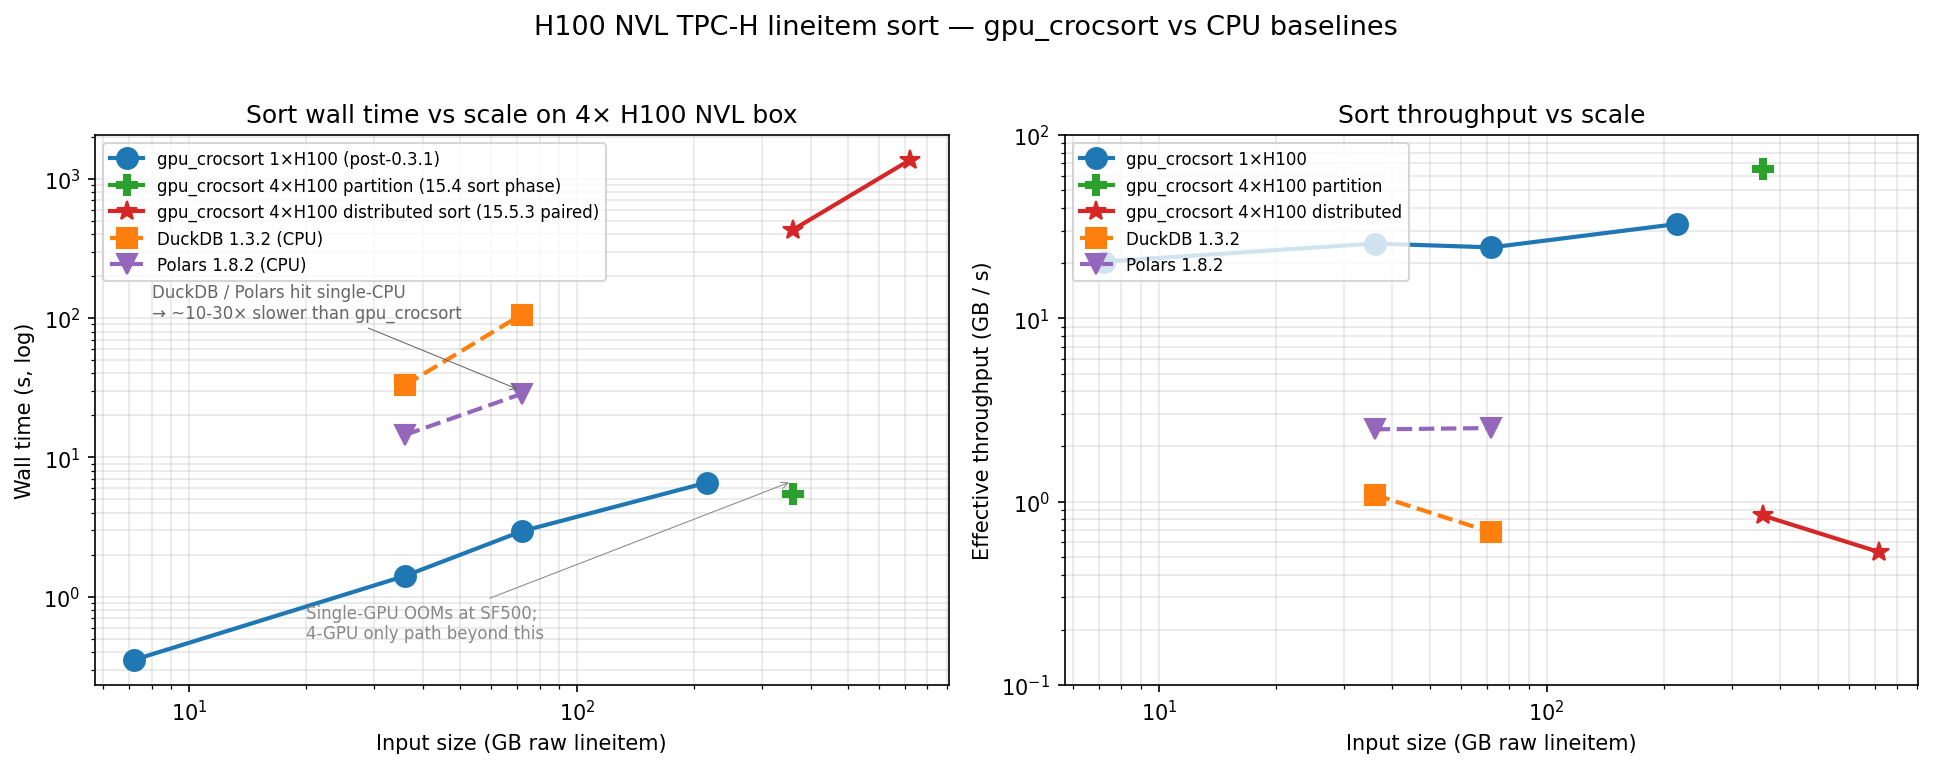
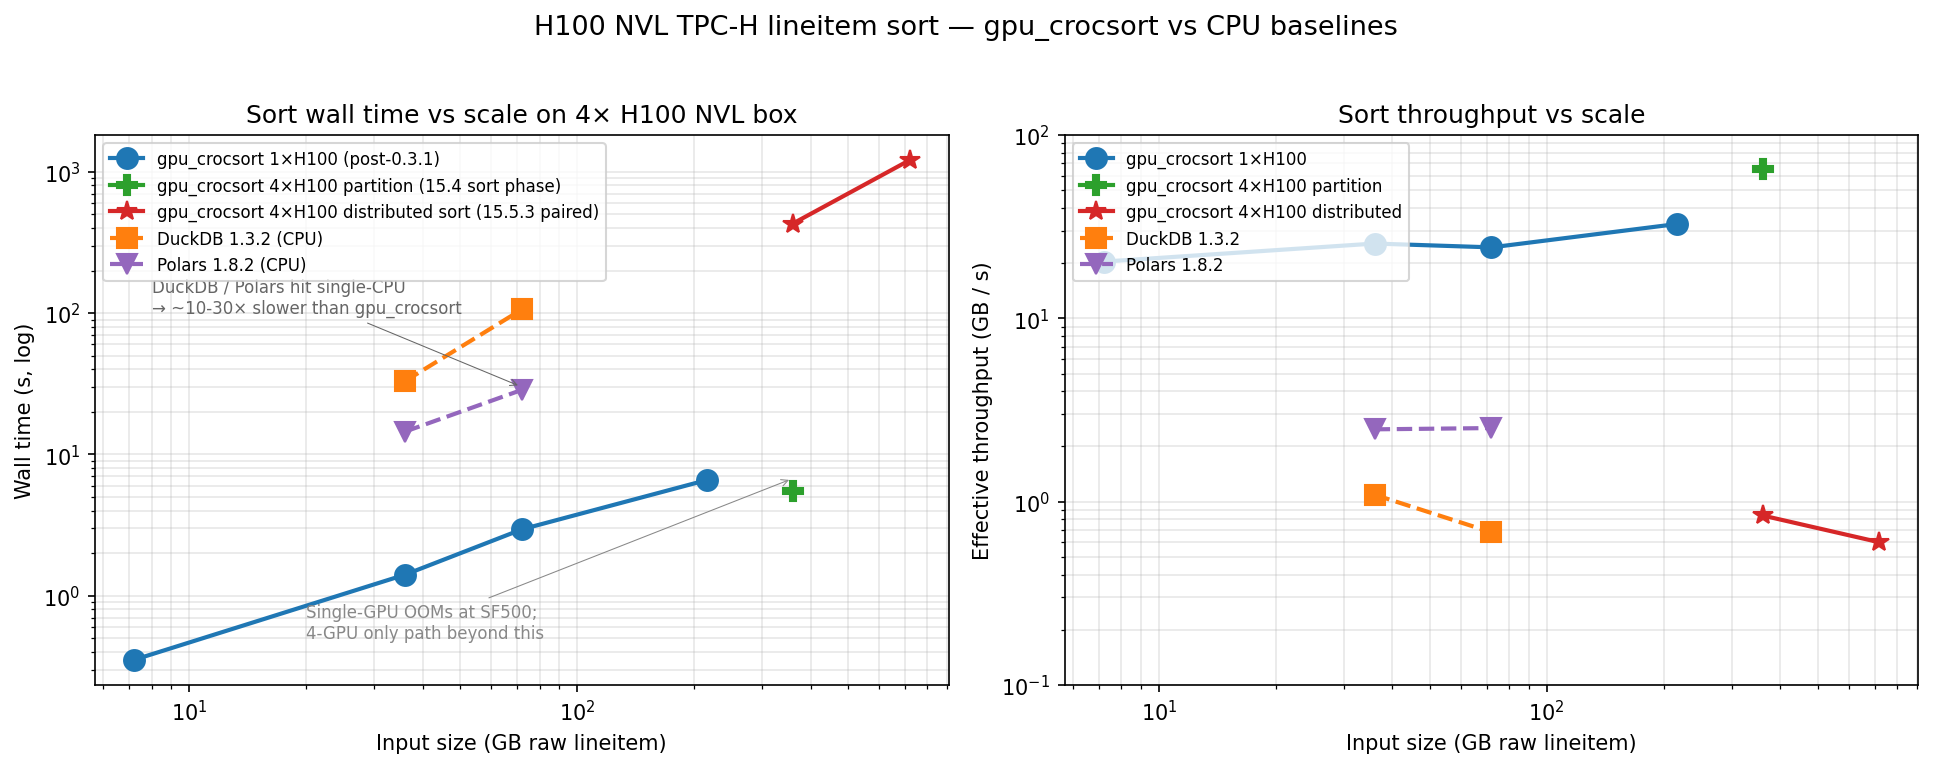
headlines: update SF1000 to 20m08s @ 0.60 GB/s (--preferred per pair)
Was 22m40s @ 0.53 GB/s (15.5.3 baseline). 12.6% improvement from
17.3.2.7.6 NUMA --preferred wrap.

diff --git a/results/h100_runs/FINAL_chart.py b/results/h100_runs/FINAL_chart.py
@@ -28,7 +28,7 @@ gpu_crocsort_4g_partition = [
 ]
 gpu_crocsort_4g_distributed = [
     ("SF500-4G-distributed", 360.00, 430.0, 0.84),   # 17.3.2.3.3 numactl --preferred, 7m10s
-    ("SF1000-4G-distributed", 720.00, 1360.0, 0.53), # 15.5.3 paired SF1000 22m40s, no numactl test yet
+    ("SF1000-4G-distributed", 720.00, 1208.0, 0.60), # 17.3.2.7.6 SF1000 with --preferred 20m08s
 ]
 duckdb_1g = [
     ("SF50",   36.00, 33.0, 1.09),

diff --git a/results/h100_runs/THROUGHPUT_TABLE.md b/results/h100_runs/THROUGHPUT_TABLE.md
@@ -47,7 +47,7 @@ intermittently OOMs at SF300 when node 0's free memory is tight.
 | Scale  | Bytes   | Wall   | End-to-end GB/s | Notes |
 |--------|---------|--------|-----------------|-------|
 | SF500  | 360 GB  | **7m36s** | 0.79 | partition (66 s warm) + 2 pairs (180+200 s) |
-| SF1000 | 720 GB  | **22m40s** | 0.53 | **first ever globally sorted SF1000.** Required NO_MAP_POPULATE=1. |
+| SF1000 | 720 GB  | **20m08s** | 0.60 | **first ever globally sorted SF1000.** NO_MAP_POPULATE=1 + NUMA --preferred per pair (17.3.2.7.6). |
 
 ## CPU baselines (1 process, 192-core box)
 
